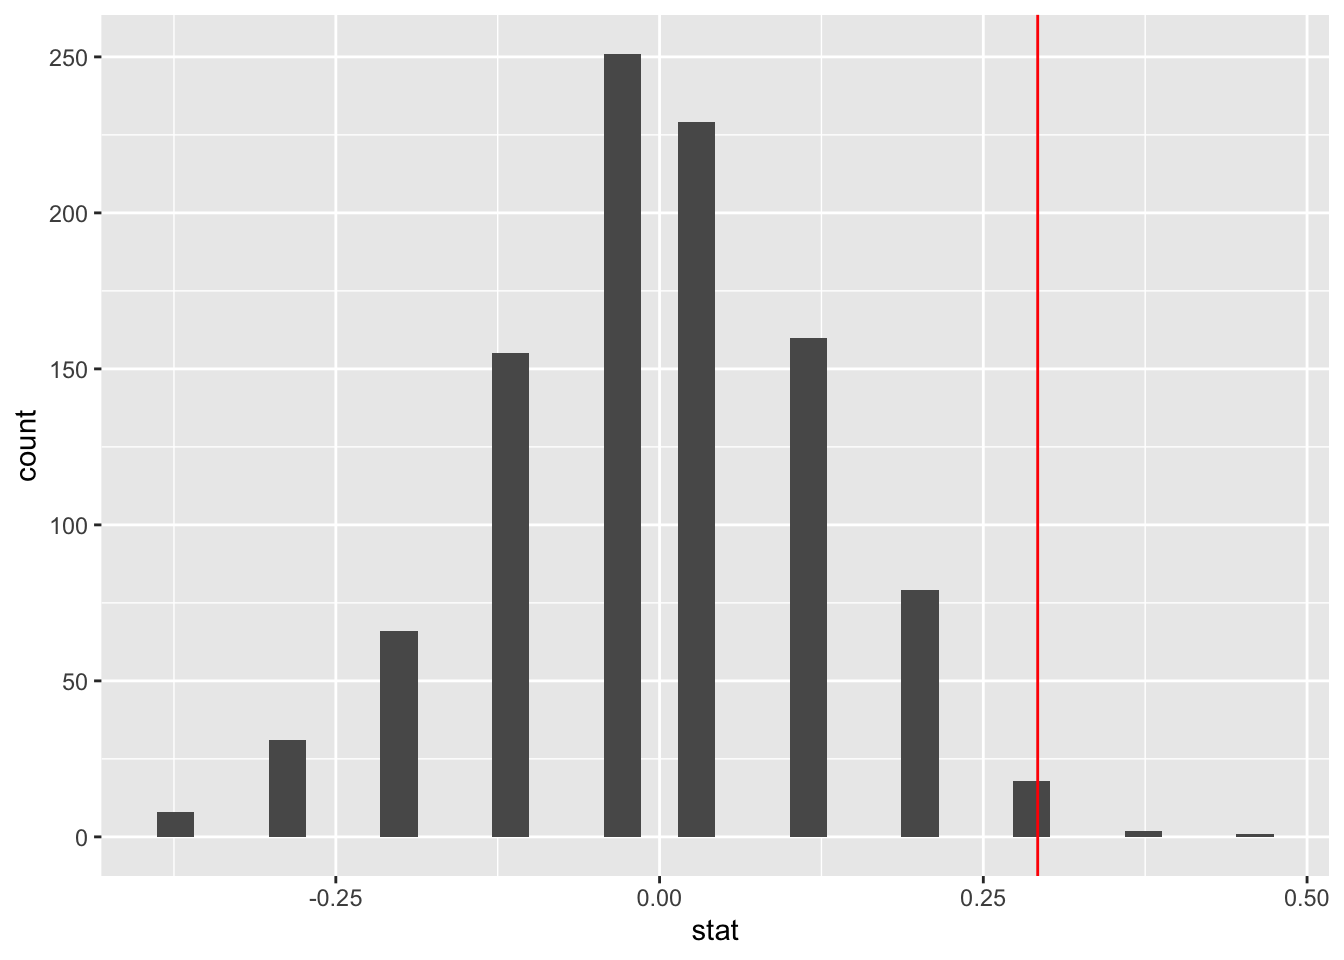
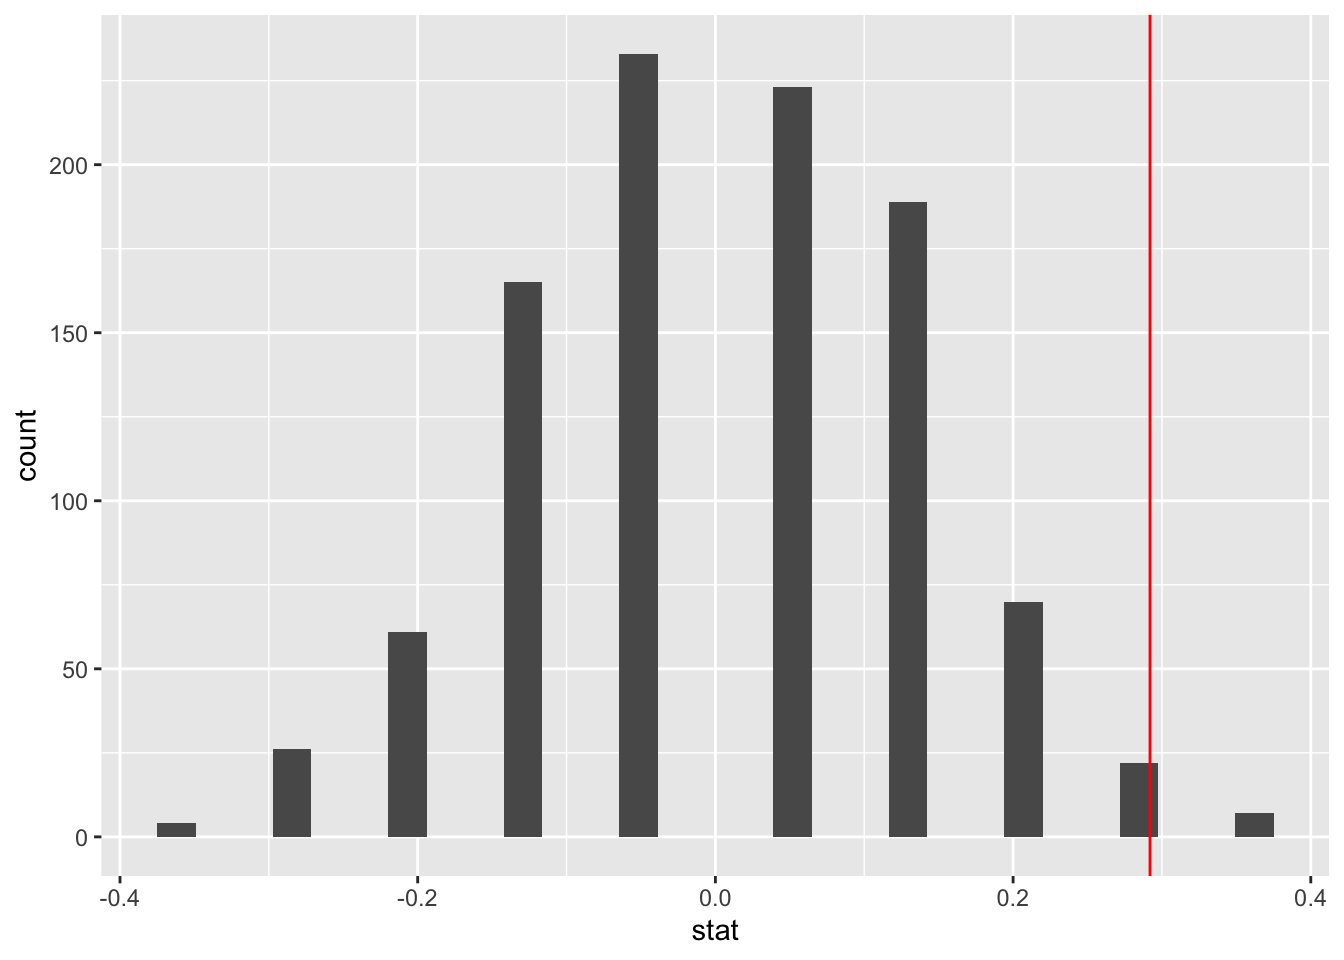
Still lab 6 issues persist! Cant publish.

diff --git a/docs/labs/Lab_6.html b/docs/labs/Lab_6.html
@@ -434,7 +434,8 @@ window.Quarto = {
 </section><section id="running-simulations" class="level2"><h2 class="anchored" data-anchor-id="running-simulations"><span style="color:#4166f5;">Running Simulations</span></h2>
 <p>Next, we use the <code>infer</code> pipeline to run 1,000 simulations as shown below. Be sure to study the code and understand what each step does. I have included notes in the form of comments to help you understand the code.</p>
 <div class="cell">
-<details open="" class="code-fold"><summary>Code</summary><div class="sourceCode" id="cb8"><pre class="downlit sourceCode r code-with-copy"><code class="sourceCode R"><span><span class="va">simulated_diffs</span> <span class="op">&lt;-</span> <span class="va">sex_discrimination</span> <span class="op">%&gt;%</span></span>
+<details open="" class="code-fold"><summary>Code</summary><div class="sourceCode" id="cb8"><pre class="downlit sourceCode r code-with-copy"><code class="sourceCode R"><span><span class="fu"><a href="https://rdrr.io/r/base/Random.html">set.seed</a></span><span class="op">(</span><span class="fl">123</span><span class="op">)</span></span>
+<span><span class="va">simulated_diffs</span> <span class="op">&lt;-</span> <span class="va">sex_discrimination</span> <span class="op">%&gt;%</span></span>
 <span>              <span class="fu">specify</span><span class="op">(</span><span class="va">decision</span> <span class="op">~</span> <span class="va">sex</span>, success <span class="op">=</span> <span class="st">"promoted"</span><span class="op">)</span> <span class="op">%&gt;%</span></span>
 <span>                <span class="fu">hypothesize</span><span class="op">(</span>null <span class="op">=</span> <span class="st">"independence"</span><span class="op">)</span> <span class="op">%&gt;%</span></span>
 <span>                <span class="fu">generate</span><span class="op">(</span>reps <span class="op">=</span> <span class="fl">1000</span>, type <span class="op">=</span> <span class="st">"permute"</span><span class="op">)</span> <span class="op">%&gt;%</span></span>
@@ -487,14 +488,14 @@ Explanatory: sex (factor)
 <pre><code># A tibble: 1 × 1
   p_value
     &lt;dbl&gt;
-1   0.003</code></pre>
+1   0.007</code></pre>
 </div>
 <details open="" class="code-fold"><summary>Code</summary><div class="sourceCode" id="cb15"><pre class="downlit sourceCode r code-with-copy"><code class="sourceCode R"><span><span class="co"># The argument obs_stat is for the observed statistic.</span></span>
 <span><span class="co"># The argument direction is for the kind of hyp test (in this case right-tailed)</span></span></code><button title="Copy to Clipboard" class="code-copy-button"><i class="bi"></i></button></pre></div>
 </details>
 </div>
 </section><section id="the-conclusion-in-contex" class="level2"><h2 class="anchored" data-anchor-id="the-conclusion-in-contex"><span style="color:#4166f5;">The conclusion in Contex</span></h2>
-<p>The whole point of doing this is to answer the question, “Is there discrimination going on against female applicants?”. Now, with a P-value as small as we have, it means that if there was no discrimination going on we would would expect to see a difference of 0.292 about 3% of the time. As you would agree, this is a very rare observation hence the results are <strong>statistically discernible</strong>. This means that the data provides strong evidence against the null hypothesis. We can conclude that discrimination is likely going on against female candidates.</p>
+<p>The whole point of doing this is to answer the question, “Is there discrimination going on against female applicants?”. Now, with a P-value as small as we have, it means that if there was no discrimination going on we would would expect to see a difference of 0.292 about 0.7% of the time. As you would agree, this is a very rare observation hence the results are <strong>statistically discernible</strong>. This means that the data provides strong evidence against the null hypothesis. We can conclude that discrimination is likely going on against female candidates.</p>
 <p>It is common to use a cut off point of 5% to decide whether the null hypothesis is likely false. The cut off point used is often called a <strong>discernibility level</strong>. This is the value used in many parts of the text.</p>
 </section><section id="creating-a-confidence-interval" class="level2"><h2 class="anchored" data-anchor-id="creating-a-confidence-interval"><span style="color:#4166f5;">Creating a Confidence Interval</span></h2>
 <p>The hypothesis test tells us whether there is discrimination going on or not. It does not tell us anything about the magnitude (the difference in proportions) of the discrimination in the population. To estimate the magnitude of this difference, we create confidence interval, i.e., a range of values within which we expect to find the true difference in promotion rates (i.e., <span class="math inline">\(p_1-p_2\)</span>). In most cases, we run both hypotheses tests and confidence intervals because the two compliment each other.</p>
@@ -518,7 +519,8 @@ Explanatory: sex (factor)
 </section><section id="generate-the-bootstrap-distribution" class="level3"><h3 class="anchored" data-anchor-id="generate-the-bootstrap-distribution"><span style="color:#4166f5;">Generate the Bootstrap Distribution</span></h3>
 <p>Next, we generate the bootstrap distribution. This is not the same as the null distribution found earlier. Bootstrap samples are generated by taking multiple samples from the sample (resampling) with replacement. We will generate 1,000 samples in this case. See code below:</p>
 <div class="cell">
-<details open="" class="code-fold"><summary>Code</summary><div class="sourceCode" id="cb18"><pre class="downlit sourceCode r code-with-copy"><code class="sourceCode R"><span><span class="va">boot_dist</span> <span class="op">&lt;-</span> <span class="va">sex_discrimination</span> <span class="op">%&gt;%</span></span>
+<details open="" class="code-fold"><summary>Code</summary><div class="sourceCode" id="cb18"><pre class="downlit sourceCode r code-with-copy"><code class="sourceCode R"><span><span class="fu"><a href="https://rdrr.io/r/base/Random.html">set.seed</a></span><span class="op">(</span><span class="fl">123</span><span class="op">)</span></span>
+<span><span class="va">boot_dist</span> <span class="op">&lt;-</span> <span class="va">sex_discrimination</span> <span class="op">%&gt;%</span></span>
 <span>  <span class="fu">specify</span><span class="op">(</span><span class="va">decision</span> <span class="op">~</span> <span class="va">sex</span>, success <span class="op">=</span> <span class="st">"promoted"</span><span class="op">)</span> <span class="op">%&gt;%</span></span>
 <span>  <span class="fu">generate</span><span class="op">(</span>reps <span class="op">=</span> <span class="fl">1000</span>, type <span class="op">=</span> <span class="st">"bootstrap"</span><span class="op">)</span> <span class="op">%&gt;%</span> </span>
 <span>  <span class="fu">calculate</span><span class="op">(</span>stat <span class="op">=</span> <span class="st">"diff in props"</span>, order <span class="op">=</span> <span class="fu"><a href="https://rdrr.io/r/base/c.html">c</a></span><span class="op">(</span><span class="st">"male"</span>, <span class="st">"female"</span><span class="op">)</span><span class="op">)</span></span></code><button title="Copy to Clipboard" class="code-copy-button"><i class="bi"></i></button></pre></div>
@@ -547,7 +549,7 @@ Explanatory: sex (factor)
 <pre><code># A tibble: 1 × 2
   lower_ci upper_ci
      &lt;dbl&gt;    &lt;dbl&gt;
-1   0.0420    0.532</code></pre>
+1   0.0490    0.522</code></pre>
 </div>
 </div>
 <p>Below is a way to use the built-in infer function to visualize the interval:</p>
@@ -562,7 +564,7 @@ Explanatory: sex (factor)
 </div>
 </div>
 </section><section id="interpreting-the-confidence-interval" class="level3"><h3 class="anchored" data-anchor-id="interpreting-the-confidence-interval"><span style="color:#4166f5;">Interpreting the Confidence Interval</span></h3>
-<p>We interpret the interval as follows: We are 95% confident that the true difference in promotion rates between male and female applicants is between 0.06 and 0.53 (or 6% and 53%).</p>
+<p>We interpret the interval as follows: We are 95% confident that the true difference in promotion rates between male and female applicants is between 0.049 and 0.52.</p>
 <p>Notice that the interval we found does not include 0. This means that 0 is not a viable value. We had also rejected null hypothesis and so the results of the confidence interval and the null hypothesis are in agreement.</p>
 </section></section><section id="exercises" class="level2"><h2 class="anchored" data-anchor-id="exercises"><span style="color:#4166f5;">Exercises</span></h2>
 <p>Research Question: How rational and consistent is the behavior of the typical American college student?</p>
